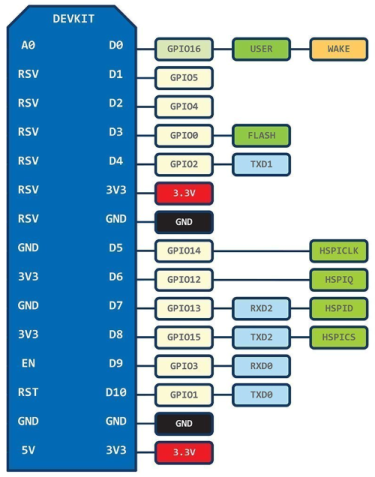
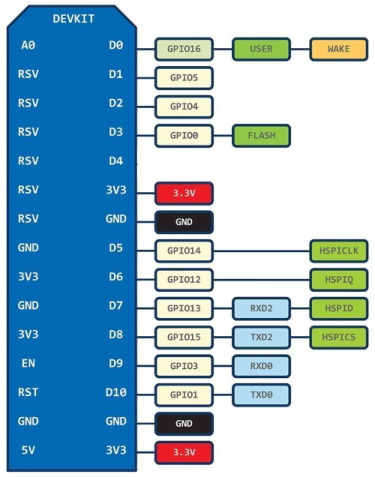
ESP GPIO Pin #2 eradicated from new app

Changed region(s): [[0.352, 0.2935, 0.792, 0.3816]]

diff --git a/Website/index.php b/Website/index.php
@@ -1053,7 +1053,7 @@ while($row = mysqli_fetch_array($result,MYSQLI_ASSOC)) {
                                     <area alt="5" title="5" href="javascript:fnNewAppPinSet(5)" coords="109,66,215,90" shape="rect">
                                     <area alt="4" title="4" href="javascript:fnNewAppPinSet(4)" coords="109,93,213,118" shape="rect">
                                     <area alt="0" title="0" href="javascript:fnNewAppPinSet(0)" coords="109,121,213,147" shape="rect">
-                                    <area alt="2" title="2" href="javascript:fnNewAppPinSet(2)" coords="109,151,213,176" shape="rect">
+                                    <!-- <area alt="2" title="2" href="javascript:fnNewAppPinSet(2)" coords="109,151,213,176" shape="rect"> -->
                                     <area alt="14" title="14" href="javascript:fnNewAppPinSet(14)" coords="108,238,213,261" shape="rect">
                                     <area alt="12" title="12" href="javascript:fnNewAppPinSet(12)" coords="109,269,213,291" shape="rect">
                                     <area alt="13" title="13" href="javascript:fnNewAppPinSet(13)" coords="110,299,212,320" shape="rect">
